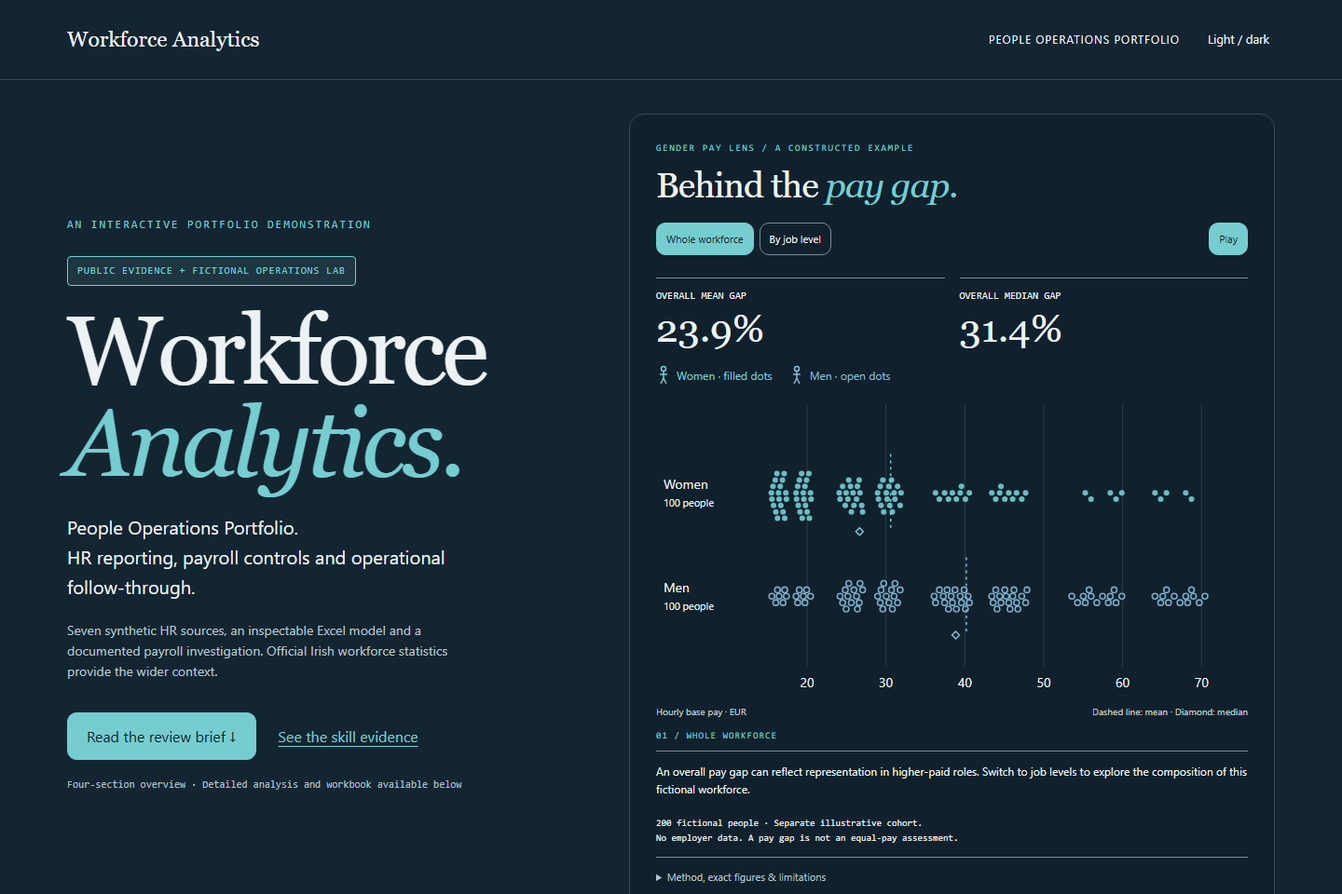
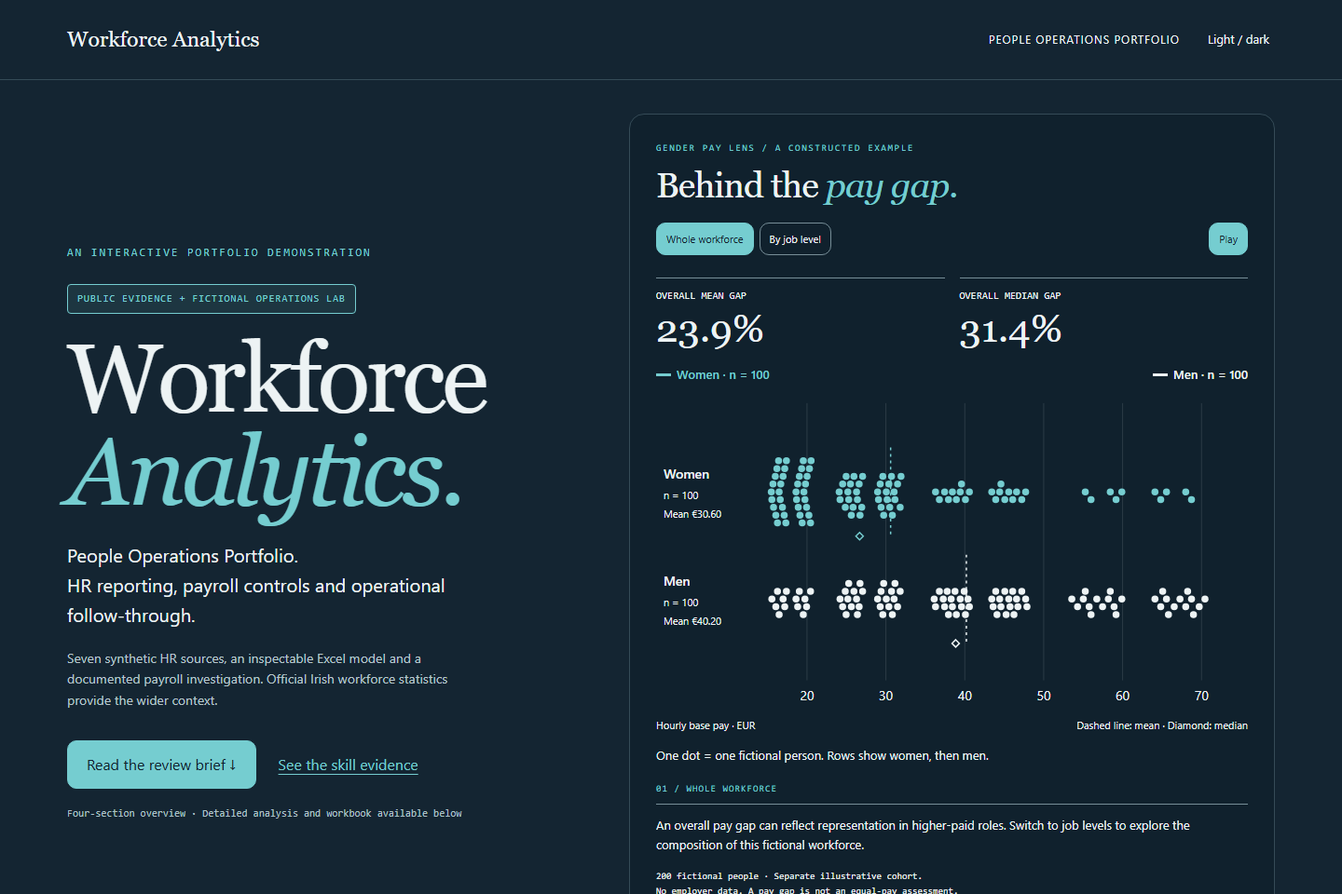
fix: improve workforce and pay-chart legibility
Copilot-Session: c251a814-9288-4f55-ae73-f1c70dd76207

diff --git a/assets/site-template.html b/assets/site-template.html
@@ -130,11 +130,15 @@ html[data-theme="dark"] .muted,html[data-theme="dark"] .footnote,html[data-theme
 @media(max-width:760px){.hero-art{display:block;margin-top:0}.canvas-wrap{max-width:320px}.art-controls{gap:6px;margin:8px 0}.art-controls button{font-size:10px;padding:8px}.art-caption{font-size:10px;gap:8px}.pay-stage{padding:18px;margin:24px 0}.pay-stage-head{align-items:start}.pay-stage-head h3{font-size:22px}.pay-stage-head button{font-size:11px;padding:8px;flex-shrink:0}.pay-stage .split{grid-template-columns:1fr;gap:16px}.pay-stage .chart text{font-size:26px}.pay-stage .evidence-box h3{font-size:23px}.pay-stage .evidence-box .big-insight{font-size:28px}.pay-case-buttons{display:grid;grid-template-columns:repeat(3,minmax(0,1fr));gap:6px}.pay-case-buttons button{font-size:10px;padding:8px 4px}.pay-stage .evidence-box{min-height:0}.pay-stage .source-ref{font-size:11px}}
 @media(prefers-reduced-motion:reduce){.pay-stage *{animation:none!important;transition:none!important}}
 @media print{.pay-stage{padding:16px;break-inside:avoid}.pay-stage-head button,.pay-case-buttons{display:none}.pay-stage *{animation:none!important}.pay-stage .split{grid-template-columns:1.5fr 1fr}.pay-stage .chart .bridge-button{opacity:1}}
-:root{--cp-lens-women:#75cdd0;--cp-lens-men:#88bcd9}
+:root{--cp-lens-women:#75cdd0;--cp-lens-men:#edf3f4;--cp-workforce-bg:#183247;--cp-workforce-ink:#edf3f4;--cp-workforce-grid:#789096;--cp-workforce-dot:#75cdd0;--cp-workforce-alert:#fda4a9}
 .hero{grid-template-columns:.9fr 1.1fr;gap:36px;padding-top:36px;min-height:0}.hero h1{font-size:clamp(76px,7.2vw,104px);letter-spacing:-4px}.hero .hero-lead{margin-top:24px}.gender-lens{--cp-lens-bg:var(--cp-text);--cp-lens-ink:var(--cp-bg);min-width:0;background:var(--cp-lens-bg);color:var(--cp-lens-ink);border:1px solid var(--cp-border);border-radius:16px;padding:28px;position:relative;overflow:hidden}html[data-theme="dark"] .gender-lens{--cp-lens-bg:var(--cp-surface);--cp-lens-ink:var(--cp-text)}.gender-lens .eyebrow{color:var(--cp-lens-women);font-size:10px;letter-spacing:1.6px;margin-bottom:12px}.gender-lens h2{font:38px/1.05 Georgia,serif;letter-spacing:-1px;margin-bottom:20px}.gender-lens h2 em{color:var(--cp-lens-women)}.lens-controls{display:flex;gap:6px;align-items:center;flex-wrap:wrap}.gender-lens button{background:var(--cp-lens-bg);color:var(--cp-lens-ink);border-color:var(--cp-border-strong);font-size:11px;padding:8px 10px}.gender-lens button[aria-pressed="true"]{background:var(--cp-lens-women);color:var(--cp-lens-bg);border-color:var(--cp-lens-women)}.gender-lens button:focus-visible,.gender-lens summary:focus-visible{outline-color:var(--cp-lens-women)}#lens-motion{margin-left:auto}.lens-metrics{display:grid;grid-template-columns:1fr 1fr;gap:16px;margin:24px 0 16px}.lens-metrics div{border-top:1px solid var(--cp-border-strong);padding-top:12px}.lens-metrics span{display:block;font:11px Consolas,monospace}.lens-metrics strong{font:42px Georgia,serif;display:block;margin-top:4px;font-variant-numeric:tabular-nums}.lens-legend{display:flex;gap:18px;align-items:center;font-size:12px}.lens-legend span{display:flex;align-items:center;gap:6px}.lens-person{width:16px;height:22px;fill:none;stroke:currentColor;stroke-width:1.5}.lens-women-key{color:var(--cp-lens-women)}.lens-men-key{color:var(--cp-lens-men)}.lens-svg{display:block;width:100%;overflow:visible;margin:8px 0}.lens-svg text{font:14px "Segoe UI",Aptos,sans-serif;fill:var(--cp-lens-ink)}.lens-svg .lens-small{font-size:11px}.lens-svg .lens-grid{stroke:var(--cp-lens-ink);opacity:.12;stroke-width:1}.lens-svg .women{fill:var(--cp-lens-women)}.lens-svg .men{fill:var(--cp-lens-bg);stroke:var(--cp-lens-men);stroke-width:1.6}.lens-svg .lens-mean{fill:none;stroke-width:1.5;stroke-dasharray:3 4}.lens-svg .lens-median{fill:var(--cp-lens-bg);stroke-width:1.5}.lens-svg .women.lens-mean,.lens-svg .women.lens-median{stroke:var(--cp-lens-women)}.lens-svg .men.lens-mean,.lens-svg .men.lens-median{stroke:var(--cp-lens-men)}.lens-dot{opacity:.9}.lens-rate-key{font-size:10px;display:flex;justify-content:space-between;gap:10px;margin:0 0 12px}.lens-rate-key span{opacity:.8}.lens-reading{font-size:12px;line-height:1.6;min-height:58px;margin:0;padding-top:12px;border-top:1px solid var(--cp-border-strong)}.lens-scope{font:10px/1.6 Consolas,monospace;margin:12px 0 0;color:var(--cp-lens-ink)}.gender-lens details{border-color:var(--cp-border-strong);margin-top:12px;padding-top:12px}.gender-lens summary{color:var(--cp-lens-ink);font-size:11px}.lens-method{font-size:12px;margin:12px 0}.gender-lens a{color:var(--cp-lens-women)}.gender-lens table{font-size:11px;min-width:410px}.gender-lens th,.gender-lens caption{color:var(--cp-lens-ink)}.gender-lens th,.gender-lens td{border-color:var(--cp-border-strong);padding:8px 6px}.gender-lens .table-wrap{margin-top:12px}#workforce-preview{max-width:540px;margin:auto}#workforce-preview .canvas-wrap{max-width:320px}.hero-foot{margin-top:0;padding-top:24px}.gender-lens .lens-state{display:block;font:10px Consolas,monospace;letter-spacing:1px;margin:4px 0 10px;color:var(--cp-lens-women)}
 @media(max-width:1100px){.hero{gap:24px}.hero h1{font-size:clamp(58px,7.2vw,80px)}.gender-lens{padding:22px}.gender-lens h2{font-size:32px}}
 @media(max-width:760px){.hero{grid-template-columns:1fr;gap:8px;padding-top:24px}.hero-copy{display:contents}.hero-copy>.eyebrow{grid-row:1;margin-bottom:8px;font-size:10px}.hero-copy>.tag{grid-row:2;justify-self:start;font-size:9px}.hero h1{grid-row:3;font-size:60px;margin:12px 0 16px;letter-spacing:-3px}.gender-lens{grid-row:4;padding:18px;margin-bottom:12px}.gender-lens h2{font-size:29px;margin-bottom:16px}.gender-lens .eyebrow{font-size:9px}.lens-metrics{margin:18px 0 12px}.lens-metrics strong{font-size:34px}.lens-metrics span{font-size:10px}.gender-lens button{font-size:10px;padding:8px}.lens-svg text{font-size:17px}.lens-svg .lens-small{font-size:13px}.lens-reading{min-height:76px;font-size:12px}.lens-rate-key{font-size:9px}.hero .hero-lead{margin-top:0}.hero-foot{margin-top:20px}.lens-scope{font-size:10px}.lens-controls{gap:5px}.hero-copy>.hero-actions{margin-top:12px}.hero-copy>.reading-note{margin-top:8px}}
 @media print{.hero{display:block}.hero h1{font-size:64px}.gender-lens{background:var(--cp-surface);color:var(--cp-text);--cp-lens-bg:var(--cp-surface);--cp-lens-ink:var(--cp-text);--cp-lens-women:var(--cp-accent);--cp-lens-men:var(--cp-text);break-inside:avoid}.lens-controls{display:none}#workforce-preview{display:none}}
+.lens-legend{justify-content:space-between;gap:12px;font-size:13px;font-weight:600}.lens-legend span:before{content:"";width:16px;height:3px;background:currentColor}.lens-svg .lens-dot.men{fill:var(--cp-lens-men);stroke:none}.lens-dot{opacity:1}.lens-svg .lens-group-label{font-weight:600}.lens-rate-key{font-size:11px;flex-wrap:wrap}.lens-rate-key span{opacity:1}.lens-reading,.gender-lens summary{font-size:13px}#workforce-preview .art-controls{align-items:center}
+#workforce-preview{max-width:none}#workforce-preview .hero-art{display:grid;grid-template-columns:.65fr 1fr;gap:20px 32px;padding:28px;background:var(--cp-workforce-bg);color:var(--cp-workforce-ink);border-radius:16px}#workforce-preview .canvas-wrap{grid-column:2;grid-row:1/4;max-width:520px}#workforce-preview .eyebrow{color:var(--cp-workforce-dot);margin-bottom:16px}#workforce-preview h3{font:32px/1.15 Georgia,serif;margin-bottom:20px}#workforce-preview .workforce-intro p{font-size:14px;margin:0}#workforce-preview .workforce-total{font:64px/1 Georgia,serif;display:block;margin-bottom:8px}#workforce-preview .art-controls{justify-content:start;margin:0}#workforce-preview button{background:var(--cp-workforce-bg);color:var(--cp-workforce-ink);border-color:var(--cp-workforce-grid);font-size:12px}#workforce-preview button[aria-pressed="true"]{background:var(--cp-workforce-dot);color:var(--cp-workforce-bg);border-color:var(--cp-workforce-dot)}#workforce-preview .art-caption{display:block;font-size:13px;border-color:var(--cp-workforce-grid);color:var(--cp-workforce-ink)}#workforce-preview .art-caption span{display:block;margin-bottom:8px}
+@media(max-width:760px){#workforce-preview .hero-art{display:block;padding:20px}#workforce-preview h3{font-size:28px;margin-bottom:12px}#workforce-preview .workforce-total{font-size:44px}#workforce-preview .canvas-wrap{max-width:400px;margin:12px auto}#workforce-preview .art-controls{gap:8px}#workforce-preview .art-caption{margin-top:16px}.lens-legend{font-size:12px}.lens-svg .lens-small{font-size:14px}}
+@media print{#workforce-preview{display:none}}
 </style>
 </head>
 <body>
@@ -159,15 +163,17 @@ html[data-theme="dark"] .muted,html[data-theme="dark"] .footnote,html[data-theme
     <h2 id="lens-title">Behind the <em>pay gap.</em></h2>
     <div class="lens-controls" role="group" aria-label="Gender pay comparison view"><button type="button" data-lens-mode="overall" aria-pressed="true">Whole workforce</button><button type="button" data-lens-mode="levels" aria-pressed="false">By job level</button><button type="button" id="lens-motion" aria-label="Pause all portfolio motion">Pause</button></div>
     <div class="lens-metrics"><div><span>OVERALL MEAN GAP</span><strong id="lens-mean-gap"></strong></div><div><span>OVERALL MEDIAN GAP</span><strong id="lens-median-gap"></strong></div></div>
-    <div class="lens-legend"><span class="lens-women-key"><svg class="lens-person" viewBox="0 0 16 22" aria-hidden="true"><circle cx="8" cy="4" r="2.5"/><path d="M8 7V14M4 10H12M8 14L5 20M8 14L11 20"/></svg>Women · filled dots</span><span class="lens-men-key"><svg class="lens-person" viewBox="0 0 16 22" aria-hidden="true"><circle cx="8" cy="4" r="2.5"/><path d="M8 7V14M4 10H12M8 14L5 20M8 14L11 20"/></svg>Men · open dots</span></div>
+    <div class="lens-legend"><span class="lens-women-key">Women · n = 100</span><span class="lens-men-key">Men · n = 100</span></div>
     <svg class="lens-svg" id="lens-chart" role="img" aria-labelledby="lens-title lens-description"><desc id="lens-description"></desc><g id="lens-grid"></g><g id="lens-dots"></g><g id="lens-markers"></g><g id="lens-labels"></g></svg>
     <div class="lens-rate-key"><span>Hourly base pay · EUR</span><span>Dashed line: mean · Diamond: median</span></div>
+    <p class="small">One dot = one fictional person. Rows show women, then men.</p>
     <span class="lens-state" id="lens-state">01 / WHOLE WORKFORCE</span>
     <p class="lens-reading" id="lens-reading" aria-live="off"></p>
     <p class="lens-scope">200 fictional people · Separate illustrative cohort.<br>No employer data. A pay gap is not an equal-pay assessment.</p>
     <details id="lens-method"><summary>Method, exact figures &amp; limitations</summary><div class="lens-method" id="lens-method-copy"></div><div class="table-wrap" id="lens-table"></div><a class="small" href="outputs/pay_lens.json" download>Download the fictional pay model ↓</a></details>
   </article>
   <div class="hero-art">
+    <div class="workforce-intro"><div class="eyebrow">WORKFORCE STRUCTURE</div><h3>From records<br>to a workforce.</h3><p><strong class="workforce-total">360</strong>fictional identities · seven source feeds.<br>The same people, rearranged across three views.</p></div>
     <div class="canvas-wrap"><canvas id="workforce" role="img" aria-label="360 synthetic employees shown across source-system, department and control views. Each dot represents one employee in the demonstration dataset."></canvas></div>
     <div class="art-controls" role="group" aria-label="Workforce visual mode">
       <button type="button" data-phase="0" aria-pressed="true">01 / Fragmented</button>
@@ -443,7 +449,7 @@ function workforce(){
   const canvas=$("workforce"),ctx=canvas.getContext("2d");
   let width=0,frame=0,animation=0,visible=true,autoCycle=true;
   const positions=DATA.dots.map((r,i)=>({x:260+Math.sin(i*2.39)*190,y:260+Math.cos(i*2.39)*190}));
-  function resize(){width=canvas.clientWidth;canvas.width=width*devicePixelRatio;canvas.height=width*devicePixelRatio;ctx.setTransform(devicePixelRatio*width/560,0,0,devicePixelRatio*width/560,0,0);draw(false)}
+  function resize(){width=canvas.clientWidth;canvas.width=width*devicePixelRatio;canvas.height=width*devicePixelRatio;const scale=devicePixelRatio*width/640;ctx.setTransform(scale,0,0,scale,40*scale,40*scale);draw(false)}
   function target(i){
     const angle=i*2.399963,spread=Math.sqrt((i+.5)/360)*205;
     if(phase===0)return{x:280+Math.cos(angle)*spread,y:270+Math.sin(angle)*spread};
@@ -453,19 +459,18 @@ function workforce(){
   }
   function draw(advance=true){
     if(!width)return;const style=getComputedStyle(document.documentElement),color=k=>style.getPropertyValue(k).trim();
-    ctx.clearRect(0,0,560,560);ctx.strokeStyle=color("--cp-border");ctx.lineWidth=.65;
+    ctx.clearRect(-40,-40,640,640);ctx.strokeStyle=color("--cp-workforce-grid");ctx.lineWidth=1;
     const labels=["HR","PAYROLL","APPROVALS","ABSENCE","TIME","VISA","CASES"];
     if(phase<2){
       for(const radius of [110,210,248]){ctx.beginPath();ctx.arc(280,270,radius,0,Math.PI*2);ctx.stroke()}
-      if(phase===0){ctx.globalAlpha=.08;ctx.fillStyle=color("--cp-text");ctx.textAlign="center";ctx.font="112px Georgia,serif";ctx.fillText("360",280,306);ctx.globalAlpha=1}
-      (phase===0?labels:["OPS","CLIENT","RISK","TECH","CORP"]).forEach((label,i,group)=>{const a=i*Math.PI*2/group.length-Math.PI/2,x=280+Math.cos(a)*244,y=270+Math.sin(a)*244;ctx.beginPath();ctx.moveTo(280+Math.cos(a)*221,270+Math.sin(a)*221);ctx.lineTo(x,y);ctx.stroke();ctx.font='10px Consolas,monospace';ctx.fillStyle=color("--cp-text-muted");ctx.textAlign="center";ctx.fillText(label,x,y+4)});
+      (phase===0?labels:["OPS","CLIENT","RISK","TECH","CORP"]).forEach((label,i,group)=>{const a=i*Math.PI*2/group.length-Math.PI/2,x=280+Math.cos(a)*244,y=270+Math.sin(a)*244;ctx.beginPath();ctx.moveTo(280+Math.cos(a)*221,270+Math.sin(a)*221);ctx.lineTo(x,y);ctx.stroke();ctx.font=`${width<400?23:18}px Consolas,monospace`;ctx.fillStyle=color("--cp-workforce-ink");ctx.textAlign="center";ctx.fillText(label,x,y+4)});
       if(phase===1){for(let i=0;i<5;i++){const a=i*Math.PI*2/5-Math.PI/2,b=(i+1)*Math.PI*2/5-Math.PI/2;ctx.beginPath();ctx.moveTo(280+Math.cos(a)*136,270+Math.sin(a)*136);ctx.quadraticCurveTo(280,270,280+Math.cos(b)*136,270+Math.sin(b)*136);ctx.stroke()}}
     }else{
-      ctx.font='11px Consolas,monospace';ctx.textAlign="left";ctx.fillStyle=color("--cp-text-muted");ctx.fillText("ONE DOT = ONE FICTIONAL PERSON",80,92);ctx.fillText("FIXTURE ROSTER · 360 IDENTITIES",80,116);
-      ctx.fillText("FLAGGED FOR REVIEW",80,462);ctx.fillStyle=color("--cp-danger");ctx.beginPath();ctx.arc(64,458,3,0,Math.PI*2);ctx.fill();
-      ctx.fillStyle=color("--cp-text-muted");ctx.fillText("SYNTHETIC ROSTER / BASELINE CONTROLS",80,486);
+      ctx.font=`${width<400?20:16}px Consolas,monospace`;ctx.textAlign="left";ctx.fillStyle=color("--cp-workforce-ink");ctx.fillText("ONE DOT = ONE FICTIONAL PERSON",50,92);ctx.fillText("FIXTURE ROSTER · 360 IDENTITIES",50,120);
+      ctx.fillText("FLAGGED FOR REVIEW",80,462);ctx.fillStyle=color("--cp-workforce-alert");ctx.beginPath();ctx.arc(64,458,4,0,Math.PI*2);ctx.fill();
+      ctx.fillStyle=color("--cp-workforce-ink");ctx.fillText("BASELINE CONTROLS",80,492);
     }
-    positions.forEach((p,i)=>{const t=target(i);if(advance){p.x+=(t.x-p.x)*.06;p.y+=(t.y-p.y)*.06}else{p.x=t.x;p.y=t.y}const pulse=!paused&&phase===0?Math.sin(frame*.015+i)*1.3:0;ctx.beginPath();ctx.arc(p.x+pulse,p.y,phase===2?2.7:2.4,0,Math.PI*2);ctx.fillStyle=color(DATA.dots[i].flag&&phase===2?"--cp-danger":i%7===0?"--cp-accent":"--cp-text-muted");ctx.globalAlpha=phase===2?1:.68;ctx.fill();ctx.globalAlpha=1});
+    positions.forEach((p,i)=>{const t=target(i);if(advance){p.x+=(t.x-p.x)*.06;p.y+=(t.y-p.y)*.06}else{p.x=t.x;p.y=t.y}const pulse=!paused&&phase===0?Math.sin(frame*.015+i)*1.3:0;ctx.beginPath();ctx.arc(p.x+pulse,p.y,width<400?4.2:3.5,0,Math.PI*2);ctx.fillStyle=color(DATA.dots[i].flag&&phase===2?"--cp-workforce-alert":"--cp-workforce-dot");ctx.fill()});
     if(advance)frame++;
   }
   function tick(){if(autoCycle&&frame>0&&frame%300===0){phase=(phase+1)%3;setPressed("[data-phase]",phase,"phase");$("art-note").textContent=["Employee records across seven source systems.","Employee identities grouped by department.","Red dots identify baseline review flags."][phase]}draw();if(!paused&&visible)animation=requestAnimationFrame(tick)}
@@ -522,8 +527,8 @@ function genderPayLens(){
   }
   function layout(view,instant=false,manual=false){
     mode=view;const w=width<470?420:640,left=112,right=w-16,x=value=>left+(value-14)/60*(right-left);
-    const h=mode==="overall"?328:392,base=mode==="overall"?[108,220]:[52,140,228,316];
-    const radius=w===420?2.05:3.05,spacing=radius*2+.8;
+    const h=mode==="overall"?344:510,base=mode==="overall"?[108,224]:[70,182,294,406];
+    const radius=w===420?2.8:3.8,spacing=radius*2+.8;
     svg.setAttribute("viewBox",`0 0 ${w} ${h}`);svg.dataset.mode=mode;svg.dataset.settled="false";
     setPressed("[data-lens-mode]",mode,"lensMode");
     $("lens-state").textContent=mode==="overall"?"01 / WHOLE WORKFORCE":"02 / SAME PEOPLE, BY JOB LEVEL";
@@ -537,7 +542,7 @@ function genderPayLens(){
     const groups=mode==="overall"?[{id:null,...model.overall}]:model.levels;
     groups.forEach((group,index)=>{
       ["Women","Men"].forEach((gender,genderIndex)=>{
-        const center=mode==="overall"?base[genderIndex]:base[index]+(genderIndex===0?-22:22);
+        const center=mode==="overall"?base[genderIndex]:base[index]+(genderIndex===0?-30:30);
         const members=dots.filter(dot=>dot.gender===gender&&(!group.id||dot.level===group.id)).sort((a,b)=>a.hourly_eur-b.hourly_eur||a.id.localeCompare(b.id));
         const placed=[];
         members.forEach(dot=>{
@@ -549,10 +554,10 @@ function genderPayLens(){
           }
           dot.tx=tx;dot.ty=center+offset;dot.radius=radius;placed.push({x:tx,y:dot.ty});
         });
-        const values=group[gender.toLowerCase()],color=gender==="Women"?"women":"men",spread=mode==="overall"?42:16;
+        const values=group[gender.toLowerCase()],color=gender==="Women"?"women":"men",spread=mode==="overall"?48:26;
         const mx=x(values.mean),dx=x(values.median);
         markers+=`<line class="lens-mean ${color}" x1="${mx}" y1="${center-spread}" x2="${mx}" y2="${center+spread}"><title>${esc(gender+" mean: "+money(values.mean))}</title></line><path class="lens-median ${color}" d="M${dx},${center+spread-4}l4,4 -4,4 -4,-4Z"><title>${esc(gender+" median: "+money(values.median))}</title></path>`;
-        if(mode==="overall")labels+=svgText(8,center-4,gender)+svgText(8,center+15,`${values.n} people`,'class="lens-small"');
+        if(mode==="overall")labels+=svgText(8,center-14,gender,'class="lens-group-label"')+svgText(8,center+8,`n = ${values.n}`,'class="lens-small"')+svgText(8,center+28,`Mean ${money(values.mean)}`,'class="lens-small"');
       });
       if(mode==="levels")labels+=svgText(8,base[index]-10,group.title)+svgText(8,base[index]+9,`W ${group.women.n} / M ${group.men.n}`,'class="lens-small"')+svgText(8,base[index]+25,`${percent(group.mean_gap_pct)} mean gap`,'class="lens-small"');
     });

diff --git a/index.html b/index.html
@@ -130,11 +130,15 @@ html[data-theme="dark"] .muted,html[data-theme="dark"] .footnote,html[data-theme
 @media(max-width:760px){.hero-art{display:block;margin-top:0}.canvas-wrap{max-width:320px}.art-controls{gap:6px;margin:8px 0}.art-controls button{font-size:10px;padding:8px}.art-caption{font-size:10px;gap:8px}.pay-stage{padding:18px;margin:24px 0}.pay-stage-head{align-items:start}.pay-stage-head h3{font-size:22px}.pay-stage-head button{font-size:11px;padding:8px;flex-shrink:0}.pay-stage .split{grid-template-columns:1fr;gap:16px}.pay-stage .chart text{font-size:26px}.pay-stage .evidence-box h3{font-size:23px}.pay-stage .evidence-box .big-insight{font-size:28px}.pay-case-buttons{display:grid;grid-template-columns:repeat(3,minmax(0,1fr));gap:6px}.pay-case-buttons button{font-size:10px;padding:8px 4px}.pay-stage .evidence-box{min-height:0}.pay-stage .source-ref{font-size:11px}}
 @media(prefers-reduced-motion:reduce){.pay-stage *{animation:none!important;transition:none!important}}
 @media print{.pay-stage{padding:16px;break-inside:avoid}.pay-stage-head button,.pay-case-buttons{display:none}.pay-stage *{animation:none!important}.pay-stage .split{grid-template-columns:1.5fr 1fr}.pay-stage .chart .bridge-button{opacity:1}}
-:root{--cp-lens-women:#75cdd0;--cp-lens-men:#88bcd9}
+:root{--cp-lens-women:#75cdd0;--cp-lens-men:#edf3f4;--cp-workforce-bg:#183247;--cp-workforce-ink:#edf3f4;--cp-workforce-grid:#789096;--cp-workforce-dot:#75cdd0;--cp-workforce-alert:#fda4a9}
 .hero{grid-template-columns:.9fr 1.1fr;gap:36px;padding-top:36px;min-height:0}.hero h1{font-size:clamp(76px,7.2vw,104px);letter-spacing:-4px}.hero .hero-lead{margin-top:24px}.gender-lens{--cp-lens-bg:var(--cp-text);--cp-lens-ink:var(--cp-bg);min-width:0;background:var(--cp-lens-bg);color:var(--cp-lens-ink);border:1px solid var(--cp-border);border-radius:16px;padding:28px;position:relative;overflow:hidden}html[data-theme="dark"] .gender-lens{--cp-lens-bg:var(--cp-surface);--cp-lens-ink:var(--cp-text)}.gender-lens .eyebrow{color:var(--cp-lens-women);font-size:10px;letter-spacing:1.6px;margin-bottom:12px}.gender-lens h2{font:38px/1.05 Georgia,serif;letter-spacing:-1px;margin-bottom:20px}.gender-lens h2 em{color:var(--cp-lens-women)}.lens-controls{display:flex;gap:6px;align-items:center;flex-wrap:wrap}.gender-lens button{background:var(--cp-lens-bg);color:var(--cp-lens-ink);border-color:var(--cp-border-strong);font-size:11px;padding:8px 10px}.gender-lens button[aria-pressed="true"]{background:var(--cp-lens-women);color:var(--cp-lens-bg);border-color:var(--cp-lens-women)}.gender-lens button:focus-visible,.gender-lens summary:focus-visible{outline-color:var(--cp-lens-women)}#lens-motion{margin-left:auto}.lens-metrics{display:grid;grid-template-columns:1fr 1fr;gap:16px;margin:24px 0 16px}.lens-metrics div{border-top:1px solid var(--cp-border-strong);padding-top:12px}.lens-metrics span{display:block;font:11px Consolas,monospace}.lens-metrics strong{font:42px Georgia,serif;display:block;margin-top:4px;font-variant-numeric:tabular-nums}.lens-legend{display:flex;gap:18px;align-items:center;font-size:12px}.lens-legend span{display:flex;align-items:center;gap:6px}.lens-person{width:16px;height:22px;fill:none;stroke:currentColor;stroke-width:1.5}.lens-women-key{color:var(--cp-lens-women)}.lens-men-key{color:var(--cp-lens-men)}.lens-svg{display:block;width:100%;overflow:visible;margin:8px 0}.lens-svg text{font:14px "Segoe UI",Aptos,sans-serif;fill:var(--cp-lens-ink)}.lens-svg .lens-small{font-size:11px}.lens-svg .lens-grid{stroke:var(--cp-lens-ink);opacity:.12;stroke-width:1}.lens-svg .women{fill:var(--cp-lens-women)}.lens-svg .men{fill:var(--cp-lens-bg);stroke:var(--cp-lens-men);stroke-width:1.6}.lens-svg .lens-mean{fill:none;stroke-width:1.5;stroke-dasharray:3 4}.lens-svg .lens-median{fill:var(--cp-lens-bg);stroke-width:1.5}.lens-svg .women.lens-mean,.lens-svg .women.lens-median{stroke:var(--cp-lens-women)}.lens-svg .men.lens-mean,.lens-svg .men.lens-median{stroke:var(--cp-lens-men)}.lens-dot{opacity:.9}.lens-rate-key{font-size:10px;display:flex;justify-content:space-between;gap:10px;margin:0 0 12px}.lens-rate-key span{opacity:.8}.lens-reading{font-size:12px;line-height:1.6;min-height:58px;margin:0;padding-top:12px;border-top:1px solid var(--cp-border-strong)}.lens-scope{font:10px/1.6 Consolas,monospace;margin:12px 0 0;color:var(--cp-lens-ink)}.gender-lens details{border-color:var(--cp-border-strong);margin-top:12px;padding-top:12px}.gender-lens summary{color:var(--cp-lens-ink);font-size:11px}.lens-method{font-size:12px;margin:12px 0}.gender-lens a{color:var(--cp-lens-women)}.gender-lens table{font-size:11px;min-width:410px}.gender-lens th,.gender-lens caption{color:var(--cp-lens-ink)}.gender-lens th,.gender-lens td{border-color:var(--cp-border-strong);padding:8px 6px}.gender-lens .table-wrap{margin-top:12px}#workforce-preview{max-width:540px;margin:auto}#workforce-preview .canvas-wrap{max-width:320px}.hero-foot{margin-top:0;padding-top:24px}.gender-lens .lens-state{display:block;font:10px Consolas,monospace;letter-spacing:1px;margin:4px 0 10px;color:var(--cp-lens-women)}
 @media(max-width:1100px){.hero{gap:24px}.hero h1{font-size:clamp(58px,7.2vw,80px)}.gender-lens{padding:22px}.gender-lens h2{font-size:32px}}
 @media(max-width:760px){.hero{grid-template-columns:1fr;gap:8px;padding-top:24px}.hero-copy{display:contents}.hero-copy>.eyebrow{grid-row:1;margin-bottom:8px;font-size:10px}.hero-copy>.tag{grid-row:2;justify-self:start;font-size:9px}.hero h1{grid-row:3;font-size:60px;margin:12px 0 16px;letter-spacing:-3px}.gender-lens{grid-row:4;padding:18px;margin-bottom:12px}.gender-lens h2{font-size:29px;margin-bottom:16px}.gender-lens .eyebrow{font-size:9px}.lens-metrics{margin:18px 0 12px}.lens-metrics strong{font-size:34px}.lens-metrics span{font-size:10px}.gender-lens button{font-size:10px;padding:8px}.lens-svg text{font-size:17px}.lens-svg .lens-small{font-size:13px}.lens-reading{min-height:76px;font-size:12px}.lens-rate-key{font-size:9px}.hero .hero-lead{margin-top:0}.hero-foot{margin-top:20px}.lens-scope{font-size:10px}.lens-controls{gap:5px}.hero-copy>.hero-actions{margin-top:12px}.hero-copy>.reading-note{margin-top:8px}}
 @media print{.hero{display:block}.hero h1{font-size:64px}.gender-lens{background:var(--cp-surface);color:var(--cp-text);--cp-lens-bg:var(--cp-surface);--cp-lens-ink:var(--cp-text);--cp-lens-women:var(--cp-accent);--cp-lens-men:var(--cp-text);break-inside:avoid}.lens-controls{display:none}#workforce-preview{display:none}}
+.lens-legend{justify-content:space-between;gap:12px;font-size:13px;font-weight:600}.lens-legend span:before{content:"";width:16px;height:3px;background:currentColor}.lens-svg .lens-dot.men{fill:var(--cp-lens-men);stroke:none}.lens-dot{opacity:1}.lens-svg .lens-group-label{font-weight:600}.lens-rate-key{font-size:11px;flex-wrap:wrap}.lens-rate-key span{opacity:1}.lens-reading,.gender-lens summary{font-size:13px}#workforce-preview .art-controls{align-items:center}
+#workforce-preview{max-width:none}#workforce-preview .hero-art{display:grid;grid-template-columns:.65fr 1fr;gap:20px 32px;padding:28px;background:var(--cp-workforce-bg);color:var(--cp-workforce-ink);border-radius:16px}#workforce-preview .canvas-wrap{grid-column:2;grid-row:1/4;max-width:520px}#workforce-preview .eyebrow{color:var(--cp-workforce-dot);margin-bottom:16px}#workforce-preview h3{font:32px/1.15 Georgia,serif;margin-bottom:20px}#workforce-preview .workforce-intro p{font-size:14px;margin:0}#workforce-preview .workforce-total{font:64px/1 Georgia,serif;display:block;margin-bottom:8px}#workforce-preview .art-controls{justify-content:start;margin:0}#workforce-preview button{background:var(--cp-workforce-bg);color:var(--cp-workforce-ink);border-color:var(--cp-workforce-grid);font-size:12px}#workforce-preview button[aria-pressed="true"]{background:var(--cp-workforce-dot);color:var(--cp-workforce-bg);border-color:var(--cp-workforce-dot)}#workforce-preview .art-caption{display:block;font-size:13px;border-color:var(--cp-workforce-grid);color:var(--cp-workforce-ink)}#workforce-preview .art-caption span{display:block;margin-bottom:8px}
+@media(max-width:760px){#workforce-preview .hero-art{display:block;padding:20px}#workforce-preview h3{font-size:28px;margin-bottom:12px}#workforce-preview .workforce-total{font-size:44px}#workforce-preview .canvas-wrap{max-width:400px;margin:12px auto}#workforce-preview .art-controls{gap:8px}#workforce-preview .art-caption{margin-top:16px}.lens-legend{font-size:12px}.lens-svg .lens-small{font-size:14px}}
+@media print{#workforce-preview{display:none}}
 </style>
 </head>
 <body>
@@ -159,15 +163,17 @@ html[data-theme="dark"] .muted,html[data-theme="dark"] .footnote,html[data-theme
     <h2 id="lens-title">Behind the <em>pay gap.</em></h2>
     <div class="lens-controls" role="group" aria-label="Gender pay comparison view"><button type="button" data-lens-mode="overall" aria-pressed="true">Whole workforce</button><button type="button" data-lens-mode="levels" aria-pressed="false">By job level</button><button type="button" id="lens-motion" aria-label="Pause all portfolio motion">Pause</button></div>
     <div class="lens-metrics"><div><span>OVERALL MEAN GAP</span><strong id="lens-mean-gap"></strong></div><div><span>OVERALL MEDIAN GAP</span><strong id="lens-median-gap"></strong></div></div>
-    <div class="lens-legend"><span class="lens-women-key"><svg class="lens-person" viewBox="0 0 16 22" aria-hidden="true"><circle cx="8" cy="4" r="2.5"/><path d="M8 7V14M4 10H12M8 14L5 20M8 14L11 20"/></svg>Women · filled dots</span><span class="lens-men-key"><svg class="lens-person" viewBox="0 0 16 22" aria-hidden="true"><circle cx="8" cy="4" r="2.5"/><path d="M8 7V14M4 10H12M8 14L5 20M8 14L11 20"/></svg>Men · open dots</span></div>
+    <div class="lens-legend"><span class="lens-women-key">Women · n = 100</span><span class="lens-men-key">Men · n = 100</span></div>
     <svg class="lens-svg" id="lens-chart" role="img" aria-labelledby="lens-title lens-description"><desc id="lens-description"></desc><g id="lens-grid"></g><g id="lens-dots"></g><g id="lens-markers"></g><g id="lens-labels"></g></svg>
     <div class="lens-rate-key"><span>Hourly base pay · EUR</span><span>Dashed line: mean · Diamond: median</span></div>
+    <p class="small">One dot = one fictional person. Rows show women, then men.</p>
     <span class="lens-state" id="lens-state">01 / WHOLE WORKFORCE</span>
     <p class="lens-reading" id="lens-reading" aria-live="off"></p>
     <p class="lens-scope">200 fictional people · Separate illustrative cohort.<br>No employer data. A pay gap is not an equal-pay assessment.</p>
     <details id="lens-method"><summary>Method, exact figures &amp; limitations</summary><div class="lens-method" id="lens-method-copy"></div><div class="table-wrap" id="lens-table"></div><a class="small" href="outputs/pay_lens.json" download>Download the fictional pay model ↓</a></details>
   </article>
   <div class="hero-art">
+    <div class="workforce-intro"><div class="eyebrow">WORKFORCE STRUCTURE</div><h3>From records<br>to a workforce.</h3><p><strong class="workforce-total">360</strong>fictional identities · seven source feeds.<br>The same people, rearranged across three views.</p></div>
     <div class="canvas-wrap"><canvas id="workforce" role="img" aria-label="360 synthetic employees shown across source-system, department and control views. Each dot represents one employee in the demonstration dataset."></canvas></div>
     <div class="art-controls" role="group" aria-label="Workforce visual mode">
       <button type="button" data-phase="0" aria-pressed="true">01 / Fragmented</button>
@@ -443,7 +449,7 @@ function workforce(){
   const canvas=$("workforce"),ctx=canvas.getContext("2d");
   let width=0,frame=0,animation=0,visible=true,autoCycle=true;
   const positions=DATA.dots.map((r,i)=>({x:260+Math.sin(i*2.39)*190,y:260+Math.cos(i*2.39)*190}));
-  function resize(){width=canvas.clientWidth;canvas.width=width*devicePixelRatio;canvas.height=width*devicePixelRatio;ctx.setTransform(devicePixelRatio*width/560,0,0,devicePixelRatio*width/560,0,0);draw(false)}
+  function resize(){width=canvas.clientWidth;canvas.width=width*devicePixelRatio;canvas.height=width*devicePixelRatio;const scale=devicePixelRatio*width/640;ctx.setTransform(scale,0,0,scale,40*scale,40*scale);draw(false)}
   function target(i){
     const angle=i*2.399963,spread=Math.sqrt((i+.5)/360)*205;
     if(phase===0)return{x:280+Math.cos(angle)*spread,y:270+Math.sin(angle)*spread};
@@ -453,19 +459,18 @@ function workforce(){
   }
   function draw(advance=true){
     if(!width)return;const style=getComputedStyle(document.documentElement),color=k=>style.getPropertyValue(k).trim();
-    ctx.clearRect(0,0,560,560);ctx.strokeStyle=color("--cp-border");ctx.lineWidth=.65;
+    ctx.clearRect(-40,-40,640,640);ctx.strokeStyle=color("--cp-workforce-grid");ctx.lineWidth=1;
     const labels=["HR","PAYROLL","APPROVALS","ABSENCE","TIME","VISA","CASES"];
     if(phase<2){
       for(const radius of [110,210,248]){ctx.beginPath();ctx.arc(280,270,radius,0,Math.PI*2);ctx.stroke()}
-      if(phase===0){ctx.globalAlpha=.08;ctx.fillStyle=color("--cp-text");ctx.textAlign="center";ctx.font="112px Georgia,serif";ctx.fillText("360",280,306);ctx.globalAlpha=1}
-      (phase===0?labels:["OPS","CLIENT","RISK","TECH","CORP"]).forEach((label,i,group)=>{const a=i*Math.PI*2/group.length-Math.PI/2,x=280+Math.cos(a)*244,y=270+Math.sin(a)*244;ctx.beginPath();ctx.moveTo(280+Math.cos(a)*221,270+Math.sin(a)*221);ctx.lineTo(x,y);ctx.stroke();ctx.font='10px Consolas,monospace';ctx.fillStyle=color("--cp-text-muted");ctx.textAlign="center";ctx.fillText(label,x,y+4)});
+      (phase===0?labels:["OPS","CLIENT","RISK","TECH","CORP"]).forEach((label,i,group)=>{const a=i*Math.PI*2/group.length-Math.PI/2,x=280+Math.cos(a)*244,y=270+Math.sin(a)*244;ctx.beginPath();ctx.moveTo(280+Math.cos(a)*221,270+Math.sin(a)*221);ctx.lineTo(x,y);ctx.stroke();ctx.font=`${width<400?23:18}px Consolas,monospace`;ctx.fillStyle=color("--cp-workforce-ink");ctx.textAlign="center";ctx.fillText(label,x,y+4)});
       if(phase===1){for(let i=0;i<5;i++){const a=i*Math.PI*2/5-Math.PI/2,b=(i+1)*Math.PI*2/5-Math.PI/2;ctx.beginPath();ctx.moveTo(280+Math.cos(a)*136,270+Math.sin(a)*136);ctx.quadraticCurveTo(280,270,280+Math.cos(b)*136,270+Math.sin(b)*136);ctx.stroke()}}
     }else{
-      ctx.font='11px Consolas,monospace';ctx.textAlign="left";ctx.fillStyle=color("--cp-text-muted");ctx.fillText("ONE DOT = ONE FICTIONAL PERSON",80,92);ctx.fillText("FIXTURE ROSTER · 360 IDENTITIES",80,116);
-      ctx.fillText("FLAGGED FOR REVIEW",80,462);ctx.fillStyle=color("--cp-danger");ctx.beginPath();ctx.arc(64,458,3,0,Math.PI*2);ctx.fill();
-      ctx.fillStyle=color("--cp-text-muted");ctx.fillText("SYNTHETIC ROSTER / BASELINE CONTROLS",80,486);
+      ctx.font=`${width<400?20:16}px Consolas,monospace`;ctx.textAlign="left";ctx.fillStyle=color("--cp-workforce-ink");ctx.fillText("ONE DOT = ONE FICTIONAL PERSON",50,92);ctx.fillText("FIXTURE ROSTER · 360 IDENTITIES",50,120);
+      ctx.fillText("FLAGGED FOR REVIEW",80,462);ctx.fillStyle=color("--cp-workforce-alert");ctx.beginPath();ctx.arc(64,458,4,0,Math.PI*2);ctx.fill();
+      ctx.fillStyle=color("--cp-workforce-ink");ctx.fillText("BASELINE CONTROLS",80,492);
     }
-    positions.forEach((p,i)=>{const t=target(i);if(advance){p.x+=(t.x-p.x)*.06;p.y+=(t.y-p.y)*.06}else{p.x=t.x;p.y=t.y}const pulse=!paused&&phase===0?Math.sin(frame*.015+i)*1.3:0;ctx.beginPath();ctx.arc(p.x+pulse,p.y,phase===2?2.7:2.4,0,Math.PI*2);ctx.fillStyle=color(DATA.dots[i].flag&&phase===2?"--cp-danger":i%7===0?"--cp-accent":"--cp-text-muted");ctx.globalAlpha=phase===2?1:.68;ctx.fill();ctx.globalAlpha=1});
+    positions.forEach((p,i)=>{const t=target(i);if(advance){p.x+=(t.x-p.x)*.06;p.y+=(t.y-p.y)*.06}else{p.x=t.x;p.y=t.y}const pulse=!paused&&phase===0?Math.sin(frame*.015+i)*1.3:0;ctx.beginPath();ctx.arc(p.x+pulse,p.y,width<400?4.2:3.5,0,Math.PI*2);ctx.fillStyle=color(DATA.dots[i].flag&&phase===2?"--cp-workforce-alert":"--cp-workforce-dot");ctx.fill()});
     if(advance)frame++;
   }
   function tick(){if(autoCycle&&frame>0&&frame%300===0){phase=(phase+1)%3;setPressed("[data-phase]",phase,"phase");$("art-note").textContent=["Employee records across seven source systems.","Employee identities grouped by department.","Red dots identify baseline review flags."][phase]}draw();if(!paused&&visible)animation=requestAnimationFrame(tick)}
@@ -522,8 +527,8 @@ function genderPayLens(){
   }
   function layout(view,instant=false,manual=false){
     mode=view;const w=width<470?420:640,left=112,right=w-16,x=value=>left+(value-14)/60*(right-left);
-    const h=mode==="overall"?328:392,base=mode==="overall"?[108,220]:[52,140,228,316];
-    const radius=w===420?2.05:3.05,spacing=radius*2+.8;
+    const h=mode==="overall"?344:510,base=mode==="overall"?[108,224]:[70,182,294,406];
+    const radius=w===420?2.8:3.8,spacing=radius*2+.8;
     svg.setAttribute("viewBox",`0 0 ${w} ${h}`);svg.dataset.mode=mode;svg.dataset.settled="false";
     setPressed("[data-lens-mode]",mode,"lensMode");
     $("lens-state").textContent=mode==="overall"?"01 / WHOLE WORKFORCE":"02 / SAME PEOPLE, BY JOB LEVEL";
@@ -537,7 +542,7 @@ function genderPayLens(){
     const groups=mode==="overall"?[{id:null,...model.overall}]:model.levels;
     groups.forEach((group,index)=>{
       ["Women","Men"].forEach((gender,genderIndex)=>{
-        const center=mode==="overall"?base[genderIndex]:base[index]+(genderIndex===0?-22:22);
+        const center=mode==="overall"?base[genderIndex]:base[index]+(genderIndex===0?-30:30);
         const members=dots.filter(dot=>dot.gender===gender&&(!group.id||dot.level===group.id)).sort((a,b)=>a.hourly_eur-b.hourly_eur||a.id.localeCompare(b.id));
         const placed=[];
         members.forEach(dot=>{
@@ -549,10 +554,10 @@ function genderPayLens(){
           }
           dot.tx=tx;dot.ty=center+offset;dot.radius=radius;placed.push({x:tx,y:dot.ty});
         });
-        const values=group[gender.toLowerCase()],color=gender==="Women"?"women":"men",spread=mode==="overall"?42:16;
+        const values=group[gender.toLowerCase()],color=gender==="Women"?"women":"men",spread=mode==="overall"?48:26;
         const mx=x(values.mean),dx=x(values.median);
         markers+=`<line class="lens-mean ${color}" x1="${mx}" y1="${center-spread}" x2="${mx}" y2="${center+spread}"><title>${esc(gender+" mean: "+money(values.mean))}</title></line><path class="lens-median ${color}" d="M${dx},${center+spread-4}l4,4 -4,4 -4,-4Z"><title>${esc(gender+" median: "+money(values.median))}</title></path>`;
-        if(mode==="overall")labels+=svgText(8,center-4,gender)+svgText(8,center+15,`${values.n} people`,'class="lens-small"');
+        if(mode==="overall")labels+=svgText(8,center-14,gender,'class="lens-group-label"')+svgText(8,center+8,`n = ${values.n}`,'class="lens-small"')+svgText(8,center+28,`Mean ${money(values.mean)}`,'class="lens-small"');
       });
       if(mode==="levels")labels+=svgText(8,base[index]-10,group.title)+svgText(8,base[index]+9,`W ${group.women.n} / M ${group.men.n}`,'class="lens-small"')+svgText(8,base[index]+25,`${percent(group.mean_gap_pct)} mean gap`,'class="lens-small"');
     });

diff --git a/tests/test_browser.py b/tests/test_browser.py
@@ -57,6 +57,15 @@ def main():
         page.wait_for_function("document.getElementById('lens-chart').dataset.settled==='true'")
         check(page.locator("#top #pay-lens").is_visible() and page.locator("#lens-chart").bounding_box()["y"] < 960, "Gender pay lens is the opening visual")
         check(page.locator(".lens-dot").count() == 200 and page.locator(".lens-dot.women").count() == 100, "Each opening dot represents one person in the separate fictional cohort")
+        check(page.locator(".lens-legend svg").count() == 0 and page.locator(".lens-dot.men").first.evaluate("dot=>getComputedStyle(dot).fill===getComputedStyle(document.querySelector('.lens-men-key')).color && getComputedStyle(dot).stroke==='none'"), "Pay groups use equally filled marks with direct labels, without person icons")
+        check("Mean €30.60" in page.locator("#lens-labels").text_content() and "Mean €40.20" in page.locator("#lens-labels").text_content(), "Overall distributions expose their exact mean hourly rates directly")
+        page.locator("#workforce").scroll_into_view_if_needed()
+        check(page.locator("#workforce").bounding_box()["width"] >= 450 and page.locator("#workforce").evaluate("""canvas=>{
+            const pixels=canvas.getContext('2d').getImageData(0,0,canvas.width,canvas.height).data;
+            let solid=0;for(let i=0;i<pixels.length;i+=4)if(pixels[i+3]>=240&&pixels[i+1]-pixels[i]>60&&pixels[i+2]-pixels[i]>60)solid++;
+            return solid>2000;
+        }"""), "Workforce preview paints large, opaque high-contrast marks instead of faint dots")
+        page.screenshot(path=str(SHOTS / "workforce-preview-desktop-light.png"))
         check("Separate illustrative cohort" in page.locator(".lens-scope").inner_text(), "Gender-pay cohort boundary is explicit in the opening view")
         pay_lens = json.loads((ROOT / "outputs" / "pay_lens.json").read_text())
         headline = f'{pay_lens["overall"]["mean_gap_pct"]:.1f}%'
@@ -67,11 +76,13 @@ def main():
         check(page.locator("#lens-chart").get_attribute("data-mode") == "levels" and original_dot != page.locator(".lens-dot").first.get_attribute("transform"), "Keyboard selection rearranges the same employees into job levels")
         check(page.locator(".lens-dot").count() == 200 and page.locator("#lens-mean-gap").inner_text() == headline, "Job-level view preserves people and the overall gap")
         check(page.locator("#lens-labels").text_content().count("0.0% mean gap") == 4, "Constructed within-level gaps remain distinct from the overall statistic")
+        check(page.locator("#lens-chart").evaluate("svg=>[...svg.querySelectorAll('.lens-median')].every(marker=>{const box=marker.getBBox();return box.y+box.height<svg.viewBox.baseVal.height-26})"), "Median markers remain separate from the pay-axis tick labels")
         page.locator("#lens-method > summary").click()
         check(page.locator("#lens-table tbody tr").count() == 5 and "€30.60" in page.locator("#lens-table").inner_text(), "Accessible pay table exposes exact overall and level summaries")
         page.locator("#lens-method > summary").click()
         page.locator('[data-lens-mode="overall"]').click()
         check(page.locator("#lens-chart").get_attribute("data-settled") == "true", "Reduced-motion preference renders pay transitions immediately")
+        page.evaluate("window.scrollTo({top:0,behavior:'instant'})")
         page.get_by_role("button", name="03 / Controlled", exact=True).click()
         check(page.locator('[data-phase="2"]').get_attribute("aria-pressed") == "true", "Workforce identity/control visual switches")
         check(page.locator("#motion").inner_text() == "Resume motion", "Reduced-motion setting pauses animation")
@@ -201,6 +212,8 @@ def main():
             check(page.locator("#lens-chart").bounding_box()["y"] < 844, "Opening gender-pay graph is visible in the first mobile screen / " + theme)
             page.screenshot(path=str(SHOTS / f"hero-mobile-{theme}.png"))
             page.screenshot(path=str(SHOTS / f"portfolio-concise-mobile-{theme}.png"), full_page=True)
+            check(page.locator(".lens-dot").first.evaluate("dot=>Number(dot.getAttribute('r'))*dot.ownerSVGElement.getBoundingClientRect().width/dot.ownerSVGElement.viewBox.baseVal.width>=1.8") and page.locator("#workforce").bounding_box()["width"] >= 250, "Pay and workforce marks retain a readable mobile scale / " + theme)
+            page.locator("#workforce-preview .hero-art").screenshot(path=str(SHOTS / f"workforce-preview-mobile-{theme}.png"))
             page.locator('[data-lens-mode="levels"]').click()
             check(page.locator(".lens-dot").count() == 200 and page.evaluate("document.documentElement.scrollWidth<=innerWidth"), "Mobile level breakdown preserves records without overflow / " + theme)
             page.locator("#pay-lens").screenshot(path=str(SHOTS / f"gender-pay-levels-mobile-{theme}.png"))

diff --git a/README.md b/README.md
@@ -6,7 +6,7 @@ An independent, AI-assisted People Data & Operations portfolio project by Margar
 
 The atlas presents Irish workforce trends, multi-source data validation, payroll reconciliation, absence reporting, working-time review and case governance. An interactive source-system map and a 29-requirement evidence map connect the analysis to the People Data & Operations role.
 
-The opening **Gender Pay Lens** follows the same 200 fictional people from whole-workforce hourly-pay distributions into four job levels. Filled/open dots, mean/median markers, exact figures and keyboard controls make the comparison inspectable. A one-time guided transition respects global pause, reduced motion, interaction and off-screen visibility. The overall gap remains fixed when the layout changes.
+The opening **Gender Pay Lens** follows the same 200 fictional people from whole-workforce hourly-pay distributions into four job levels. Equally filled teal/ivory marks, direct group labels, visible mean hourly rates, mean/median markers and keyboard controls make the comparison inspectable without person icons. A one-time guided transition respects global pause, reduced motion, interaction and off-screen visibility. The overall gap remains fixed when the layout changes.
 
 This is a **separate constructed cohort**, not employer data or the operations lab. Paired rates deliberately produce equal means and medians within each level; differing representation produces the overall gap. Hourly base pay excludes bonus, overtime and benefits. The lens is neither an equal-pay assessment nor a statutory gender-pay report; the illustrative women/men categories are not an exhaustive gender model. `scripts\pay_lens.py` reproduces the fixture and calculations; `outputs\pay_lens.json` contains its labelled records, summaries and limitations. The existing workbook and notebook are unchanged.
 
@@ -14,7 +14,7 @@ The main review follows four sections: **review brief → payroll investigation 
 
 The complete public-data charts, source-system map, reporting populations, exception register, absence/time/renewal trackers and operational scenarios remain in **Detailed analysis and methods**, collapsed initially. Existing topic links open the relevant detail automatically, including links shared directly to a section. All 29 requirements are available in the expandable evidence map; important synthetic-data and professional-experience boundaries remain visible in the main review.
 
-The main payroll review includes the baseline discrepancy bridge with animated bar entry, a tracing path and a guided three-case review. Selecting a case pauses the automatic review; hovering or focusing the visual suspends it while evidence is read. Motion pauses off-screen and respects reduced-motion preferences. The workforce constellation remains visible on desktop and mobile. All displayed amounts stay fixed to the validated baseline; the folio correction remains a separate scenario.
+The main payroll review includes the baseline discrepancy bridge with animated bar entry, a tracing path and a guided three-case review. Selecting a case pauses the automatic review; hovering or focusing the visual suspends it while evidence is read. Motion pauses off-screen and respects reduced-motion preferences. The workforce constellation uses an enlarged navy panel, opaque teal marks and larger labels on desktop and mobile. All displayed amounts stay fixed to the validated baseline; the folio correction remains a separate scenario.
 
 For offline review, extract `Workforce_Analytics_Portfolio.zip` and open `index.html`. Keep the accompanying folders so that the workbook, notebook and summary downloads remain available.
 
